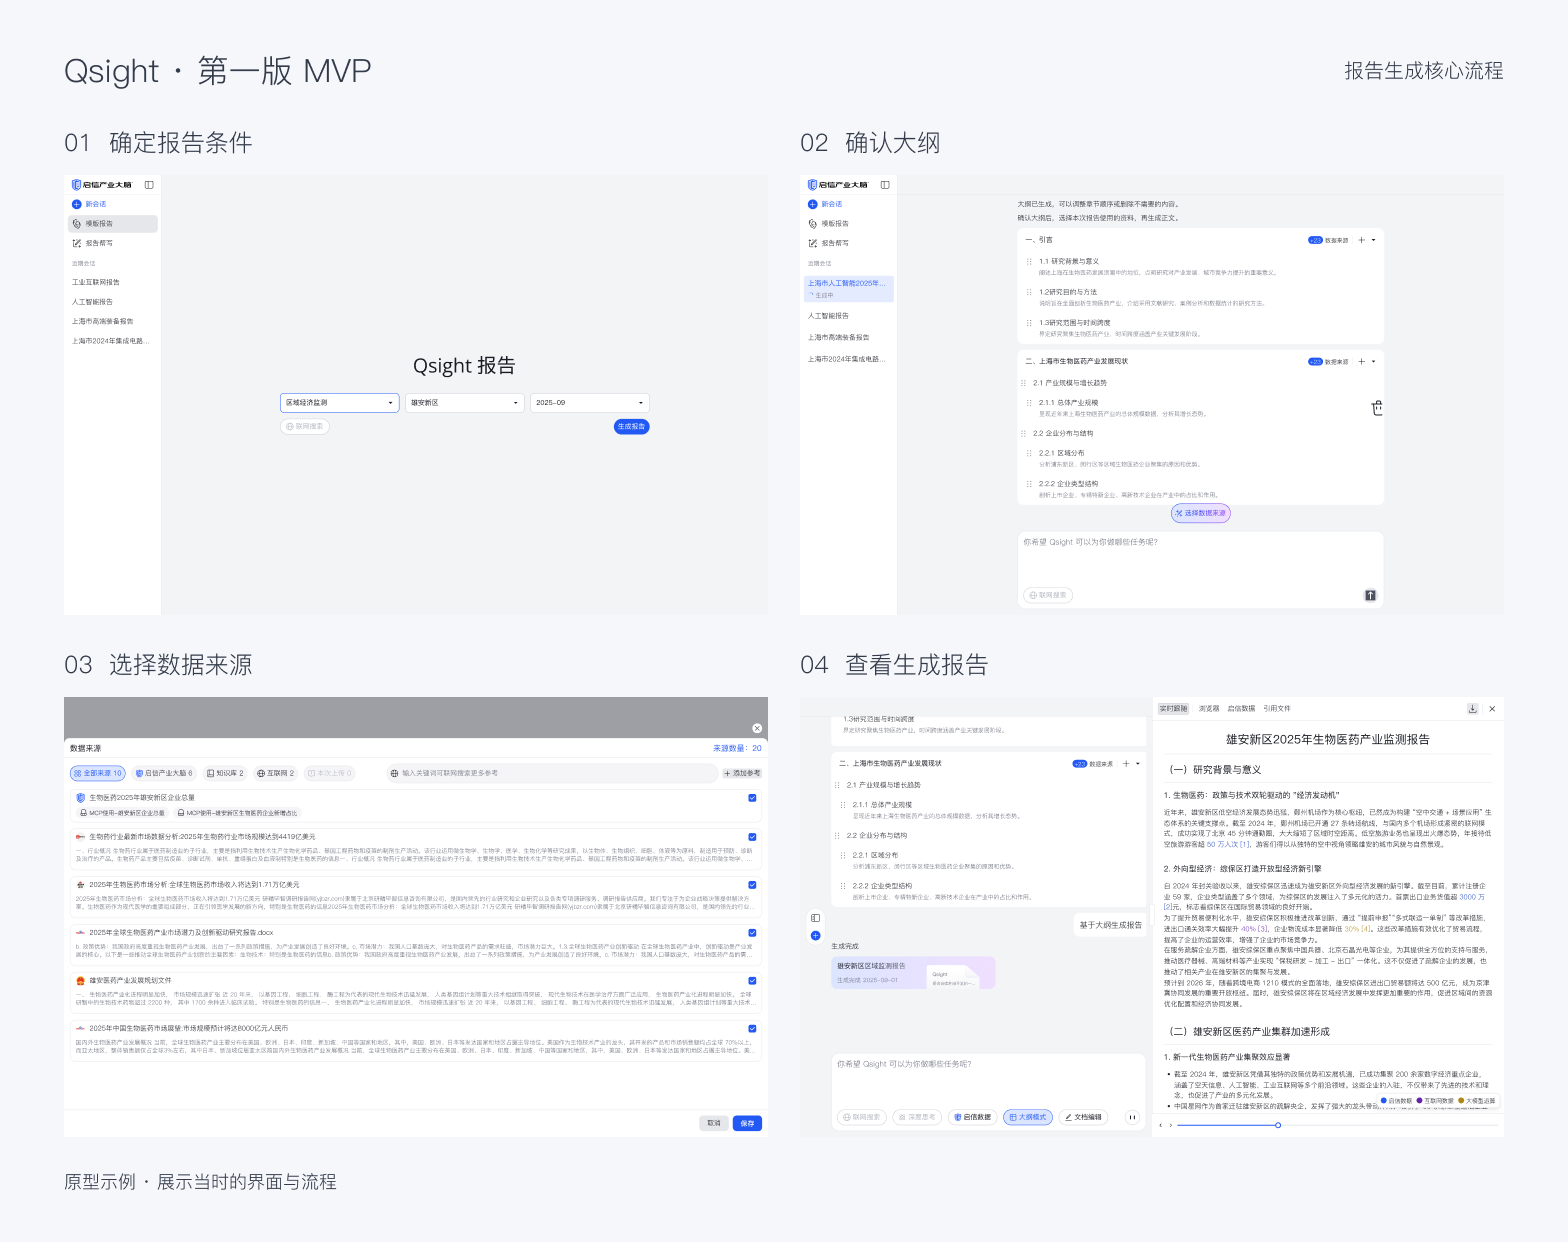
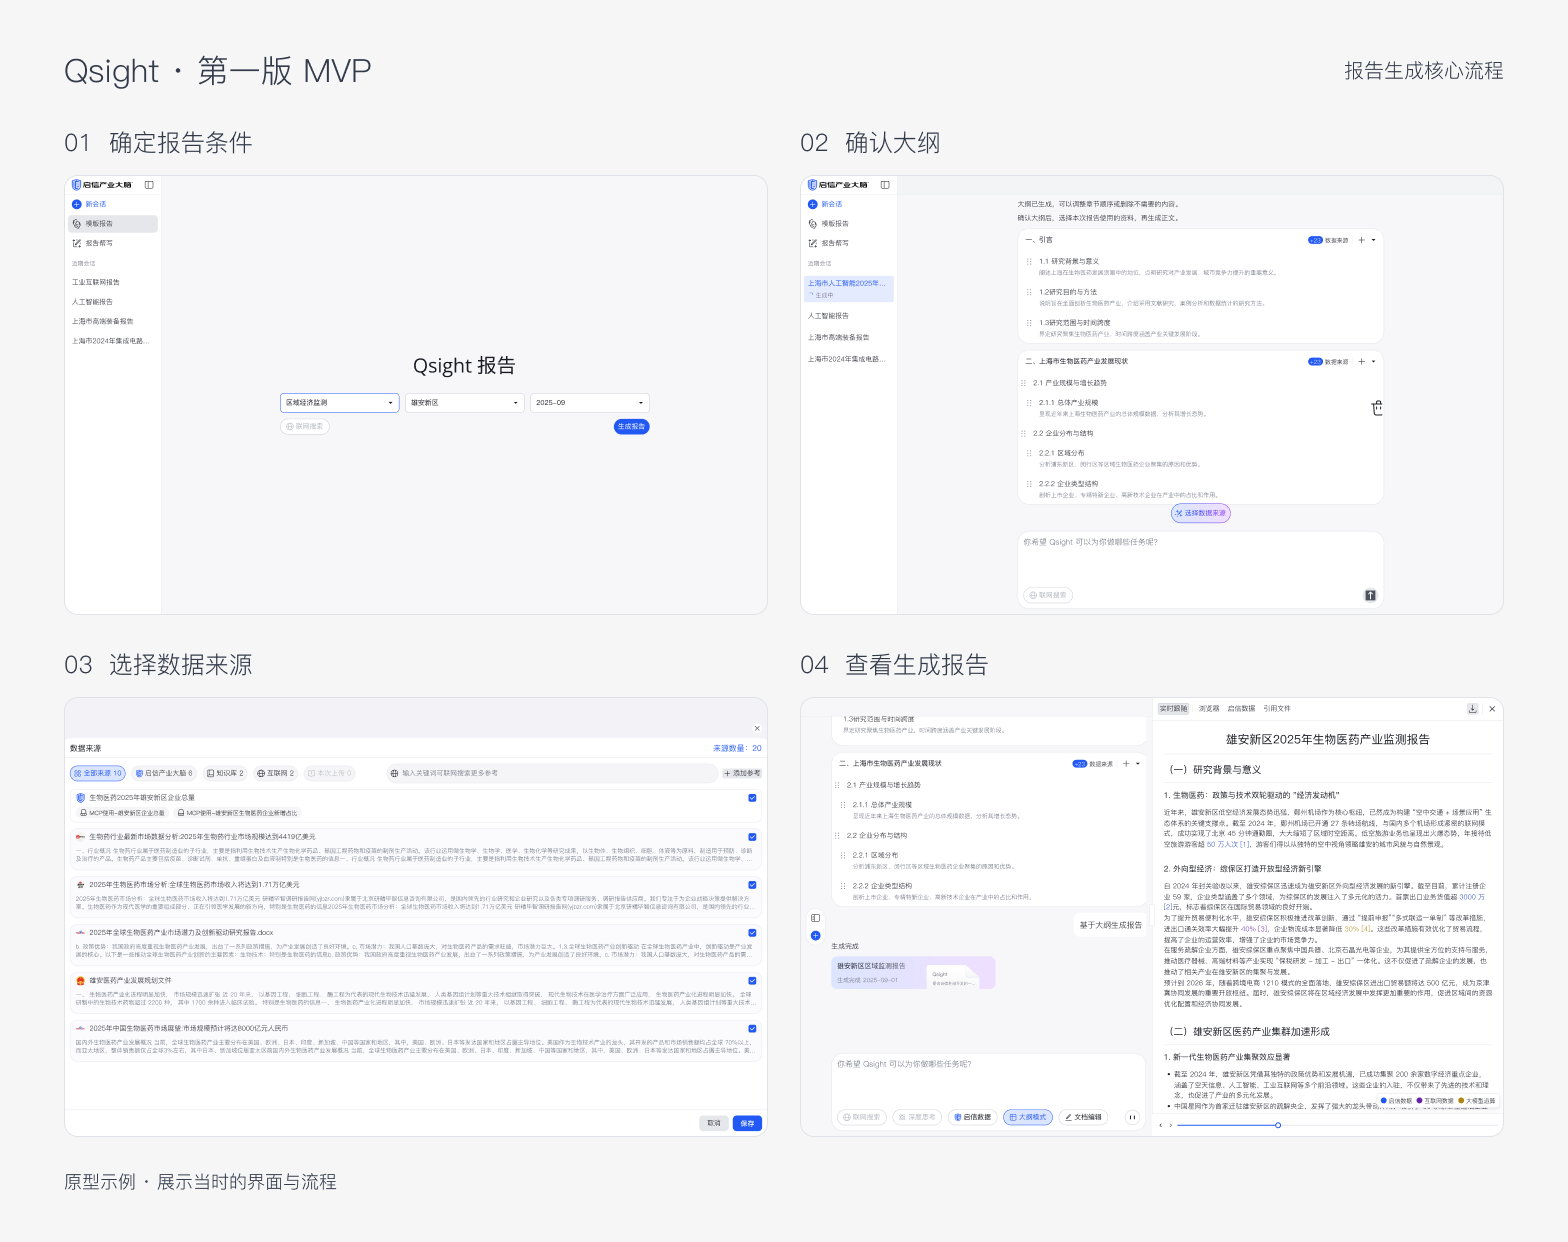
Qsight：将 MVP 展示移至第三轮访谈下方并整理界面视觉

Changed region(s): [[0.0312, 0.5507, 0.5, 0.6119]]

diff --git a/src/app/cases/QsightCase.tsx b/src/app/cases/QsightCase.tsx
@@ -1,3 +1,4 @@
+import { FigurePlaceholder } from './components/FigurePlaceholder';
 import { CaseOpening } from './components/CaseOpening';
 import { useEffect } from 'react';
 import { qsight } from './content/qsight';
@@ -9,12 +10,7 @@ import { CaseBlocks } from './CaseBlocks';
 export function QsightCase() {
   useEffect(() => { window.scrollTo({ top: 0, behavior: 'instant' }); }, []);
   return <CaseLayout backLabel={qsight.ui.back} footer={<span className="text-caption text-text-meta">{qsight.ui.footer}</span>}>
-    <figure className="case-figure">
-      <a href={`${import.meta.env.BASE_URL}images/qsight/mvp-key-screens.png`} target="_blank" rel="noreferrer" aria-label="打开 Qsight 第一版 MVP 展示原图">
-        <img src={`${import.meta.env.BASE_URL}images/qsight/mvp-key-screens.png`} width={1568} height={1242} alt="Qsight 第一版 MVP 的四个页面：确定报告条件、确认报告大纲、勾选数据来源、查看带引用编号的生成报告。" style={{ display: 'block', width: '100%', height: 'auto' }} fetchPriority="high" />
-      </a>
-      <figcaption className="text-caption text-text-secondary">第一版 MVP：报告条件、大纲确认、资料选择与报告生成。点击查看原图。</figcaption>
-    </figure>
+    <FigurePlaceholder {...qsight.hero} />
     <CaseHeader content={qsight.header} compact />
       <CaseOpening content={qsight} />
     <div className="case-body"><CaseToc items={qsight.toc} label={qsight.ui.toc} /><div className="case-chapters">{qsight.chapters.map(chapter => <CaseSection key={chapter.id} id={chapter.id} label={chapter.label} title={chapter.title}><CaseBlocks blocks={chapter.blocks} labels={qsight.ui} /></CaseSection>)}</div></div>

diff --git a/src/app/cases/components/FigurePlaceholder.tsx b/src/app/cases/components/FigurePlaceholder.tsx
@@ -1,5 +1,9 @@
 import { CaseText } from './TodoNote';
-export type FigureContent = { plate: string; title: string; instruction: string; caption: string; ratio?: string };
-export function FigurePlaceholder({ plate, title, instruction, caption, ratio = '16 / 10' }: FigureContent) {
+export type FigureContent = { plate: string; title: string; instruction: string; caption: string; ratio?: string; src?: string; alt?: string; width?: number; height?: number };
+export function FigurePlaceholder({ plate, title, instruction, caption, ratio = '16 / 10', src, alt, width, height }: FigureContent) {
+  if (src) {
+    const url = `${import.meta.env.BASE_URL}${src}`;
+    return <figure className="case-figure"><a href={url} target="_blank" rel="noreferrer" aria-label={`查看${title}原图`}><img src={url} alt={alt || title} width={width} height={height} loading="lazy" style={{ display: 'block', width: '100%', height: 'auto' }} /></a><figcaption className="text-caption text-text-secondary"><CaseText text={caption} /></figcaption></figure>;
+  }
   return <figure className="case-figure"><div className="case-figure-box" style={{ aspectRatio: ratio }} aria-hidden="true"><span className="text-caption text-text-meta">{plate} · {title}</span><span className="text-caption text-text-secondary"><CaseText text={instruction} /></span></div><figcaption className="text-caption text-text-secondary"><CaseText text={caption} /></figcaption></figure>;
 }

diff --git a/src/app/cases/content/qsight.ts b/src/app/cases/content/qsight.ts
@@ -107,9 +107,13 @@ export const qsight: CaseContent = {
           "figures": [
             {
               "plate": "PLATE 02",
-              "title": "访谈记录",
+              "title": "第一版 MVP",
+              "src": "images/qsight/mvp-key-screens.png",
+              "alt": "第一版 MVP 的报告条件、大纲确认、数据来源和生成结果四个页面",
+              "width": 1568,
+              "height": 1242,
               "instruction": "要放：访谈记录",
-              "caption": "三轮访谈分别讨论报告制作与审核、生成前的确认方式，以及历史材料复用和来源核查。"
+              "caption": "第一版 MVP：报告条件、大纲确认、数据来源与生成结果。展示稿已作视觉整理，点击查看原图。"
             }
           ]
         },
